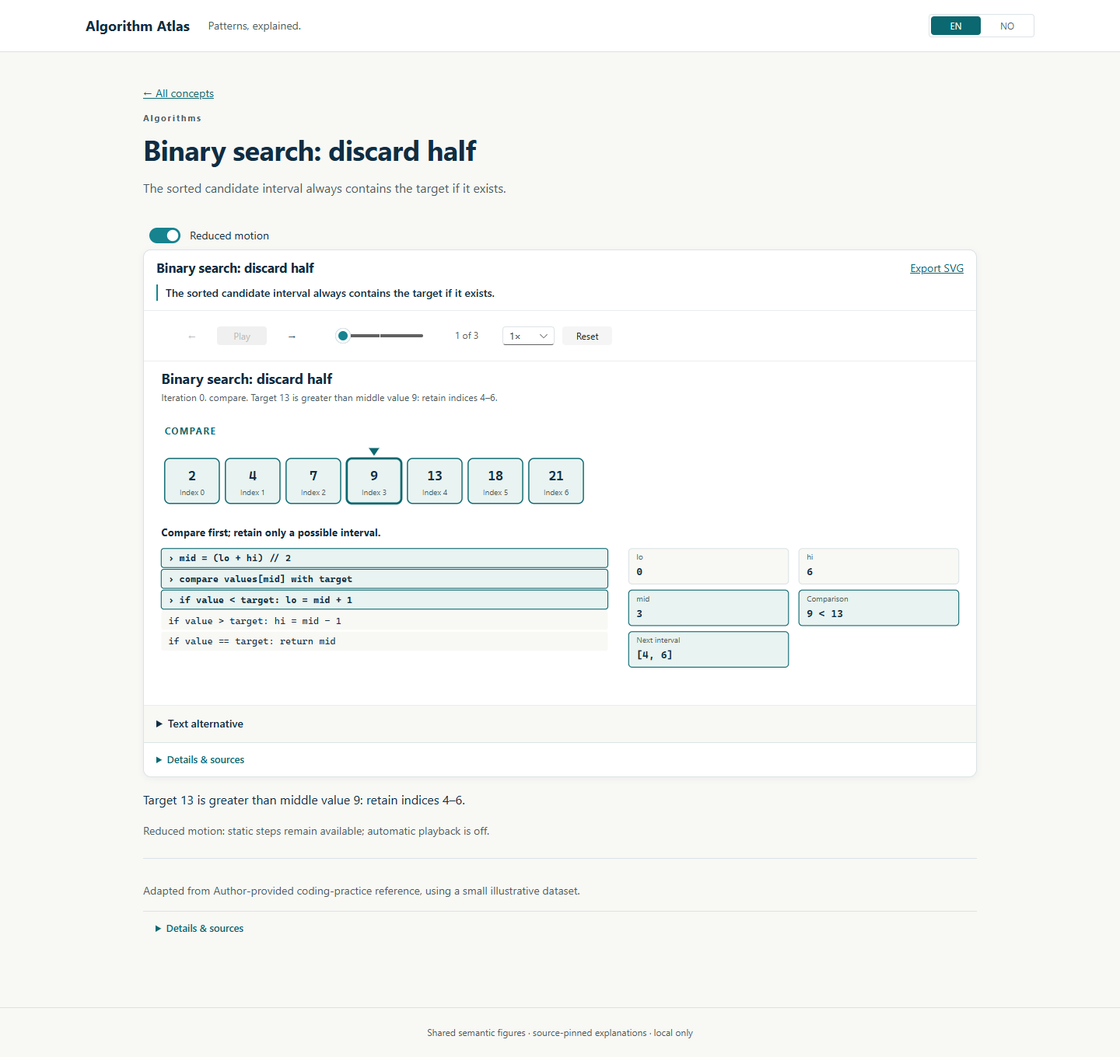
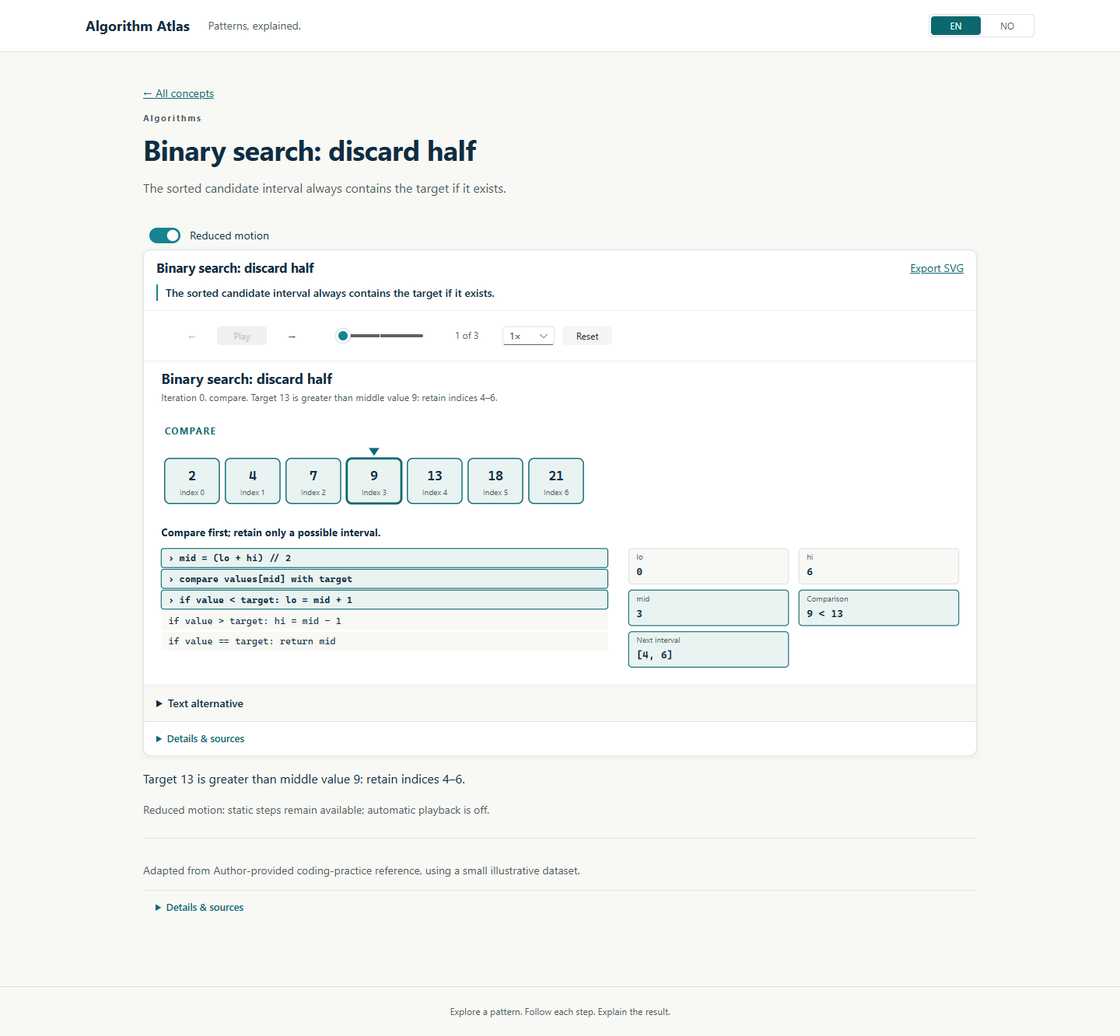
fix(v4): polish reasoning navigation and consumer clarity

diff --git a/project/conceptmotion_studio/tests/browser/v4-polish.spec.ts b/project/conceptmotion_studio/tests/browser/v4-polish.spec.ts
@@ -1,0 +1,76 @@
+import fs from 'node:fs';
+import AxeBuilder from '@axe-core/playwright';
+import { expect, test } from '@playwright/test';
+
+test.beforeEach(async ({ page }) => page.emulateMedia({ reducedMotion: 'reduce' }));
+
+test('V4 reasoning jumps keep the lesson route, keyboard focus and assessment answers', async ({ page }, info) => {
+  for (const lesson of ['think-sql', 'think-python-de']) {
+    const url = `http://127.0.0.1:4175/#/lesson/lesson.formation.${lesson}`;
+    await page.goto(url);
+    const picker = page.getByLabel('Jump to section', { exact: true });
+    await expect(picker).toBeVisible();
+    const targets = await picker.locator('option').evaluateAll(options => options.map(option => (option as HTMLOptionElement).value));
+    expect(targets).toHaveLength(7);
+    for (const targetId of targets) {
+      await picker.selectOption(targetId);
+      await page.getByRole('button', { name: 'Jump', exact: true }).press('Enter');
+      const target = page.locator(`[id="${targetId}"]`);
+      await expect(target).toBeFocused();
+      expect(await target.evaluate(element => element.getBoundingClientRect().top)).toBeGreaterThanOrEqual(0);
+      expect(await target.evaluate(element => element.getBoundingClientRect().top)).toBeLessThan(200);
+      await expect(page).toHaveURL(url);
+      await target.getByRole('button', { name: 'Back to sections', exact: true }).press('Enter');
+      await expect(picker).toBeFocused();
+    }
+    // Moving between explanations must not recreate the assessment or lose input.
+    const assessment = page.locator('#formation-reasoning-assessment');
+    const answer = assessment.getByRole('radio').first();
+    await answer.check();
+    await assessment.getByRole('button', { name: 'Back to sections', exact: true }).click();
+    await picker.selectOption(targets[0]);
+    await page.getByRole('button', { name: 'Jump', exact: true }).click();
+    await page.locator(`[id="${targets[0]}"]`).getByRole('button', { name: 'Back to sections', exact: true }).click();
+    await picker.selectOption('formation-reasoning-assessment');
+    await page.getByRole('button', { name: 'Jump', exact: true }).click();
+    await expect(answer).toBeChecked();
+    expect(await page.evaluate(() => document.documentElement.scrollWidth - document.documentElement.clientWidth)).toBeLessThanOrEqual(1);
+    const result = await new AxeBuilder({ page }).exclude('[data-tabster-dummy]').withTags(['wcag2a', 'wcag2aa', 'wcag21aa']).analyze();
+    expect(result.violations.filter(issue => issue.impact === 'serious' || issue.impact === 'critical')).toEqual([]);
+    await assessment.getByRole('button', { name: 'Back to sections', exact: true }).click();
+    fs.mkdirSync('qa/v4-screenshots', { recursive: true });
+    await page.screenshot({ path: `qa/v4-screenshots/v4-polish-${lesson}-navigation-${info.project.name}.png`, animations: 'disabled' });
+  }
+});
+
+test('V4 consumer copy keeps internal terminology behind existing details', async ({ page }) => {
+  test.setTimeout(120_000);
+  const routes = [
+    ['4175/#/catalog', 'Learn with structure.'],
+    ['4175/#/lesson/lesson.dubreu.python-lists', 'List transformations'],
+    ['4175/#/lesson/lesson.dubreu.sql-where', 'Filter rows with WHERE'],
+    ['4175/#/lesson/lesson.dubreu.sql-window', 'Rank within a group'],
+    ['4175/#/lesson/lesson.dubreu.pyspark-partitions', 'Understand partition movement'],
+    ['4175/#/practice', 'Check your understanding'],
+    ['4175/#/progress', 'Progress and review'],
+    ['4176/#learn', 'A curriculum for working with data'],
+    ['4176/#cheatsheets', 'Cheat Sheets'],
+    ['4176/#practice', 'Build fluency, one transformation at a time.'],
+    ['4176/#progress', 'Keep your practice moving'],
+    ['4176/#challenge/f-variables', 'Variables'],
+    ['4178/', 'See the invariant.'],
+    ['4178/#/concept/algorithm-binary-search', 'Binary search: discard half'],
+    ['4179/', 'One architecture. Several vocabularies.'],
+  ];
+  for (const [route, title] of routes) {
+    await page.goto(`http://127.0.0.1:${route}`);
+    await expect(page.getByRole('heading', { level: 1 })).toContainText(title);
+    const visibleCopy = await page.locator('main').innerText();
+    expect(visibleCopy, route).not.toMatch(/Dubreu|importer|semantic (?:scene|renderer|figure|objects|view)|source-preserved|source curriculum|original fixture|schema v\d|(?:source|figure|lesson|course|renderer) ID:/i);
+    expect(await page.evaluate(() => document.documentElement.scrollWidth - document.documentElement.clientWidth), route).toBeLessThanOrEqual(1);
+  }
+  const details = page.locator('.architecture-source .dp-content-details');
+  await expect(details).not.toHaveAttribute('open');
+  await details.locator('summary').press('Enter');
+  await expect(details).toContainText('Source reference:');
+});

diff --git a/project/conceptmotion_studio/apps/architecture-atlas/src/App.tsx b/project/conceptmotion_studio/apps/architecture-atlas/src/App.tsx
@@ -24,11 +24,11 @@ export default function App() {
       <label>Workload<Select aria-label="Workload" value={workload} onChange={event => { setWorkload(event.currentTarget.value as Workload); setStage('source'); }}>{Object.entries(workloadNames).map(([id, name]) => <option key={id} value={id}>{name}</option>)}</Select></label>
       <label>Provider<Select aria-label="Provider" value={provider} onChange={event => setProvider(event.currentTarget.value as Provider)}>{providers.map(id => <option key={id} value={id}>{providerNames[id]}</option>)}</Select></label>
       <label>Layout<Select aria-label="Layout" value={layout} disabled={view !== 'architecture'} onChange={event => setLayout(event.currentTarget.value as 'layered' | 'radial')}><option value="layered">Layered flow</option><option value="radial">Radial / hub</option></Select></label>
-      <label>Semantic view<Select aria-label="Semantic view" value={view} onChange={event => setView(event.currentTarget.value)}><option value="architecture">Architecture diagram</option><option value="workflow">Workflow state</option><option value="lineage">Column lineage</option></Select></label>
+      <label>View<Select aria-label="View" value={view} onChange={event => setView(event.currentTarget.value)}><option value="architecture">Architecture diagram</option><option value="workflow">Workflow state</option><option value="lineage">Column lineage</option></Select></label>
       <Switch label="Reduced motion" checked={actualReduced} onChange={(_, data) => setReduced(data.checked)} />
     </section>
     <nav className="architecture-stages" aria-label="Logical stages">{stages.map(id => <Button key={id} appearance={stage === id ? 'primary' : 'subtle'} aria-pressed={stage === id} onClick={() => { setStage(id); setView('architecture'); }}>{stageNames[id]}</Button>)}</nav>
-    <div className="architecture-workbench"><section className="architecture-canvas" aria-label="Architecture figure"><Suspense fallback={<p role="status">Loading semantic renderer…</p>}><FigurePlayer key={view} figure={displayed} locale={locale} reducedMotion={reduced} presentationSize="expanded" captions={view === 'workflow' ? retry.captions : view === 'architecture' ? stages.map(id => stageIntent[id]) : undefined} selectedId={view === 'architecture' ? stage : undefined} onSelect={id => { if (stages.includes(id as Stage)) setStage(id as Stage); }} frameIndex={view === 'architecture' ? stages.indexOf(stage) : undefined} onFrameChange={index => { if (view === 'architecture') setStage(stages[index]); }} showInspector={view !== 'architecture'} /></Suspense></section>
+    <div className="architecture-workbench"><section className="architecture-canvas" aria-label="Architecture figure"><Suspense fallback={<p role="status">Loading diagram…</p>}><FigurePlayer key={view} figure={displayed} locale={locale} reducedMotion={reduced} presentationSize="expanded" captions={view === 'workflow' ? retry.captions : view === 'architecture' ? stages.map(id => stageIntent[id]) : undefined} selectedId={view === 'architecture' ? stage : undefined} onSelect={id => { if (stages.includes(id as Stage)) setStage(id as Stage); }} frameIndex={view === 'architecture' ? stages.indexOf(stage) : undefined} onFrameChange={index => { if (view === 'architecture') setStage(stages[index]); }} showInspector={view !== 'architecture'} /></Suspense></section>
     <InspectorPanel title={`Stage Lens · ${stageNames[stage]}`} description={stageIntent[stage]}><p className="architecture-current">{translations[workload][provider][stages.indexOf(stage)]}</p><p>{stage === 'process' ? 'Spark and SQL names describe external compute choices. This Atlas explains them; it does not run them.' : 'Choose a provider without changing the logical responsibility of this stage.'}</p><h3>Compare provider translations</h3><Table aria-label="Stage provider comparison"><TableHeader><TableRow><TableHeaderCell>Provider</TableHeaderCell><TableHeaderCell>Translation</TableHeaderCell></TableRow></TableHeader><TableBody>{providers.map(id => <TableRow key={id}><TableCell>{providerNames[id]}</TableCell><TableCell>{translations[workload][id][stages.indexOf(stage)]}</TableCell></TableRow>)}</TableBody></Table></InspectorPanel></div>
     <section className="architecture-source"><p>Adapted from {architectureSource.label.toLowerCase()}. Provider terminology reflects the 4 September 2026 reference; confirm availability before deploying.</p><ContentDetails><p>Sixteen workload/provider variants. Source reference: {architectureSource.id}. Pinned snapshot: {architectureSource.verifiedAt}; not live service verification.</p><p>Local explanatory diagrams only. Spark names describe external compute, not execution here. Lineage is hand-authored, not parsed from SQL.</p></ContentDetails></section>
   </main></div>;

diff --git a/project/conceptmotion_studio/apps/formation/src/pages/ReasoningLesson.tsx b/project/conceptmotion_studio/apps/formation/src/pages/ReasoningLesson.tsx
@@ -2,28 +2,49 @@ import { FigurePlayer } from '@datapass/figure';
 import { AssessmentRunner } from '@datapass/learning';
 import { appendAssessmentAttempt, type ProgressStateV2 } from '@datapass/progress';
 import { ContentDetails, useLocale } from '@datapass/ui';
+import { Button, Select } from '@fluentui/react-components';
+import { useRef } from 'react';
 import { visualById } from '../../../../content/visuals';
 import { reasoningModules, reasoningSources } from '../data/reasoning';
 
 export function ReasoningLesson({ lessonId, progress, updateProgress }: {lessonId:string;progress:ProgressStateV2;updateProgress:(operation:(state:ProgressStateV2)=>ProgressStateV2)=>void}) {
   const module = reasoningModules.find(item=>item.lesson.id===lessonId);
   const { locale } = useLocale();
+  const sectionPicker = useRef<HTMLSelectElement>(null);
   if (!module) return null;
+  const jumpTo = (id: string) => {
+    const target = document.getElementById(id);
+    target?.focus({ preventScroll: true });
+    target?.scrollIntoView({ behavior: 'auto', block: 'start' });
+  };
+  const backToSections = <Button appearance="subtle" onClick={() => {
+    sectionPicker.current?.focus({ preventScroll: true });
+    sectionPicker.current?.closest('nav')?.scrollIntoView({ behavior: 'auto', block: 'start' });
+  }}>{locale === 'no' ? 'Til seksjonsvalg' : 'Back to sections'}</Button>;
   return <div className="formation-reasoning" data-testid="formation-reasoning">
     <nav className="formation-reasoning-index" aria-label="Thinking module sections">
-      {module.sections.map(section=><a key={section.id} href={`#section-${section.id}`} onClick={event=>{event.preventDefault();document.getElementById(`section-${section.id}`)?.scrollIntoView({behavior:'auto'});}}>{section.title}</a>)}
+      <label htmlFor="formation-section-picker">{locale === 'no' ? 'Hopp til seksjon' : 'Jump to section'}</label>
+      <Select id="formation-section-picker" key={lessonId} ref={sectionPicker} defaultValue={`section-${module.sections[0].id}`}>
+        {module.sections.map(section => <option key={section.id} value={`section-${section.id}`}>{section.title}</option>)}
+        <option value="formation-reasoning-assessment">{locale === 'no' ? 'Øving' : 'Practice'} · {String(module.assessment.title)}</option>
+      </Select>
+      <Button appearance="secondary" onClick={() => sectionPicker.current && jumpTo(sectionPicker.current.value)}>{locale === 'no' ? 'Hopp' : 'Jump'}</Button>
     </nav>
     {module.sections.map(section=>{
       const visual=section.visualId ? visualById(section.visualId) : undefined;
-      return <section className="formation-reasoning-section" id={`section-${section.id}`} key={section.id}>
-        <h2>{section.title}</h2><p>{section.text}</p>
+      return <section className="formation-reasoning-section" id={`section-${section.id}`} key={section.id} tabIndex={-1} aria-labelledby={`section-${section.id}-title`}>
+        <h2 id={`section-${section.id}-title`}>{section.title}</h2><p>{section.text}</p>
         {visual ? <FigurePlayer figure={visual.figure} captions={visual.captions} locale={locale} presentationSize={visual.figure.rendererId === 'table.join' ? 'regular' : 'compact'} showInspector={false}/> : null}
         <p className="formation-checkpoint"><strong>Checkpoint</strong> {section.checkpoint}</p>
+        {backToSections}
       </section>;
     })}
-    <AssessmentRunner headingLevel={2} assessment={module.assessment} questions={module.questions} locale={locale}
+    <section id="formation-reasoning-assessment" className="formation-reasoning-assessment" tabIndex={-1} aria-label={String(module.assessment.title)}>
+      <AssessmentRunner headingLevel={2} assessment={module.assessment} questions={module.questions} locale={locale}
       attemptId={`${module.assessment.id}:attempt:${(progress.assessments[module.assessment.id]?.attempts.length??0)+1}`}
       onSubmit={submission=>updateProgress(current=>appendAssessmentAttempt(current,module.assessment.id,submission.attempt))}/>
+      {backToSections}
+    </section>
     <ContentDetails className="formation-sources" summary="Sources and scope"><p>Original reasoning lessons. Reference behavior checked 4 September 2026; dialect-specific syntax is identified explicitly.</p>
       <ul>{reasoningSources.filter(source=>module.lesson.sourceIds?.includes(source.id)).map(source=><li key={source.id}><a href={source.url} target="_blank" rel="noreferrer">{String(source.title)}</a></li>)}</ul>
     </ContentDetails>

diff --git a/project/conceptmotion_studio/apps/code-sandbox/src/pages/CatalogPage.tsx b/project/conceptmotion_studio/apps/code-sandbox/src/pages/CatalogPage.tsx
@@ -5,6 +5,7 @@ import { practiceCatalog, practiceItems } from '../../../../content/practice';
 import type { PracticeItem } from '@datapass/content';
 import { hasPracticeVisual } from '../../../../content/visuals/practice-availability';
 const config = { allowedFacets: ['track', 'difficulty', 'language', 'status'], defaultView: 'table' as const };
+const statusLabels: Record<string, string> = { 'not-started': 'Not started', 'in-progress': 'In progress', completed: 'Completed', mastered: 'Mastered', review: 'Review later', flagged: 'Flagged' };
 export default function CatalogPage({ progress, onSelect }: { progress: ProgressStateV2; onSelect: (id: string) => void }) {
   const [state, setState] = useCatalogUrlState({ config });
   const filtered = filterAndSortCatalogItems(practiceItems, state, {
@@ -16,10 +17,10 @@ export default function CatalogPage({ progress, onSelect }: { progress: Progress
     {facet('track', 'Domain / track', practiceCatalog.tracks.map(t => ({ value: t.id, label: t.name })))}
     {facet('difficulty', 'Difficulty', ['Easy', 'Medium', 'Hard'].map(value => ({ value, label: value })))}
     {facet('language', 'Language / engine', [...new Set(practiceItems.flatMap(i => i.variants.map(v => v.language)))].sort().map(value => ({ value, label: value })))}
-    {facet('status', 'Practice status', ['not-started', 'in-progress', 'mastered', 'review', 'flagged'].map(value => ({ value, label: value })))}
+    {facet('status', 'Practice status', ['not-started', 'in-progress', 'mastered', 'review', 'flagged'].map(value => ({ value, label: statusLabels[value] })))}
   </>} actions={<ViewToggle value={state.view} onChange={value => setState(current => setCatalogView(current, value))} />} />} results={<>
     <div className="sandbox-catalog-summary"><p role="status">{filtered.length} of 323 practice items</p><div className="sandbox-actions"><Button onClick={() => setState(current => setCatalogFacetValues(current, 'status', ['review']))}>Review queue</Button><Button onClick={() => setState(current => ({ ...current, query: '', filters: {} }))}>Clear filters</Button></div></div>
     {filtered.length === 0 ? <p>No exercises match these filters.</p> : state.view === 'cards' ? <div className="sandbox-grid">{filtered.map(item => <EntityCard key={item.id} entityId={item.id} title={item.title} eyebrow={item.domain} description={item.concept} metadata={<><Badge appearance="outline">{item.difficulty}</Badge>{hasPracticeVisual(item.id) && <Badge appearance="tint">Visualize available</Badge>}</>} onSelect={onSelect} />)}</div>
-      : <EntityTable<PracticeItem> items={filtered} getRowId={item => item.id} onRowSelect={item => onSelect(item.id)} columns={[{ id: 'title', header: 'Practice item', renderCell: item => <><strong>{item.title}</strong><small>{item.domain}</small>{hasPracticeVisual(item.id) && <span className="sandbox-visual-indicator">Visualize available</span>}</> }, { id: 'difficulty', header: 'Difficulty', renderCell: item => item.difficulty }, { id: 'engines', header: 'Languages', renderCell: item => item.variants.map(v => v.label).join(' · ') }, { id: 'status', header: 'Progress', renderCell: item => progress.challenges[item.id]?.mastered ? 'Mastered' : progress.challenges[item.id]?.flagged ? 'Flagged' : progress.challenges[item.id]?.status ?? 'Not started' }]} />}
+      : <EntityTable<PracticeItem> items={filtered} getRowId={item => item.id} onRowSelect={item => onSelect(item.id)} columns={[{ id: 'title', header: 'Practice item', renderCell: item => <><strong>{item.title}</strong><small>{item.domain}</small>{hasPracticeVisual(item.id) && <span className="sandbox-visual-indicator">Visualize available</span>}</> }, { id: 'difficulty', header: 'Difficulty', renderCell: item => item.difficulty }, { id: 'engines', header: 'Languages', renderCell: item => item.variants.map(v => v.label).join(' · ') }, { id: 'status', header: 'Progress', renderCell: item => progress.challenges[item.id]?.mastered ? 'Mastered' : progress.challenges[item.id]?.flagged ? 'Flagged' : statusLabels[progress.challenges[item.id]?.status ?? 'not-started'] ?? 'Not started' }]} />}
   </>} />;
 }

diff --git a/project/conceptmotion_studio/apps/formation/src/data/contentCatalog.ts b/project/conceptmotion_studio/apps/formation/src/data/contentCatalog.ts
@@ -111,14 +111,14 @@ export const sqlFilterFigure: FigureSpec = {
   kind: 'concept',
   rendererId: 'table.transform',
   title: 'A filter changes membership, not identity',
-  subtitle: 'Stable row IDs survive the WHERE predicate',
-  takeaway: 'Rows 101 and 104 remain the same semantic objects after filtering.',
+  subtitle: 'WHERE keeps only the products that match',
+  takeaway: 'Products 101 and 104 retain their original values after filtering.',
   spec: toCanonicalJsonValue({
     kind: 'table',
     version: '2',
     id: 'scene.dubreu.sql-filter',
     title: 'Products before and after WHERE',
-    description: 'A two-frame semantic table transform.',
+    description: 'Compare the products before and after filtering.',
     frames: [productSourceState, productFilterState],
   }),
   sourceIds: ['source.dubreu.original-fixtures'],
@@ -141,7 +141,7 @@ export const sqlNotebook: NotebookSpec = {
     {
       id: 'notebook.dubreu.sql-where.cell.figure-introduction',
       type: 'markdown',
-      markdown: '## See what the predicate changes\nThe semantic figure keeps row identity visible before and after the filter.',
+      markdown: '## See what the predicate changes\nFollow the same products before and after the filter.',
       tags: ['editorial', 'conceptmotion'],
     },
     {
@@ -202,7 +202,7 @@ export const runtimeTargets: readonly RuntimeTarget[] = [
     id: 'runtime.dubreu.download-python',
     kind: 'download',
     label: 'Python reference',
-    description: 'Downloads an original fixture. It does not execute in this site.',
+    description: 'Download the original Python example to practice in your own environment.',
     downloadPath: '/notebooks/dubreu_python_lists_reference.py',
     executesExternally: false,
   },
@@ -210,7 +210,7 @@ export const runtimeTargets: readonly RuntimeTarget[] = [
     id: 'runtime.dubreu.download-sql',
     kind: 'download',
     label: 'SQL notebook',
-    description: 'Downloads the exact original fixture imported for this lesson.',
+    description: 'Download the original notebook used in this lesson.',
     downloadPath: '/notebooks/dubreu_sql_where_reference.ipynb',
     executesExternally: false,
   },
@@ -218,7 +218,7 @@ export const runtimeTargets: readonly RuntimeTarget[] = [
     id: 'runtime.dubreu.download-sql-window',
     kind: 'download',
     label: 'Advanced SQL reference',
-    description: 'Downloads the original comparison fixture. It is not executed in this site.',
+    description: 'Download the original SQL example to compare with your query.',
     downloadPath: '/notebooks/dubreu_sql_window_reference.sql',
     executesExternally: false,
   },
@@ -234,7 +234,7 @@ export const runtimeTargets: readonly RuntimeTarget[] = [
     id: 'runtime.dubreu.colab-python',
     kind: 'colab',
     label: 'Colab',
-    description: 'Opens Google Colab. You remain responsible for uploading the fixture and running it there.',
+    description: 'Open Google Colab, then upload and run the example there.',
     url: 'https://colab.research.google.com/',
     runtimeRequirements: ['Google account may be required', 'External service and runtime'],
     executesExternally: true,
@@ -277,7 +277,7 @@ const foundationCourses: readonly CourseSpec[] = [
       lessons: [{
         id: 'lesson.dubreu.sql-where',
         title: 'Filter rows with WHERE',
-        summary: 'Keep the rows that satisfy two predicates while preserving stable IDs.',
+        summary: 'Keep the rows that satisfy two conditions, with their original values.',
         objectives: ['Combine predicates with AND.', 'Explain which rows remain and why.'],
         conceptIds: ['concept.sql.where', 'concept.identity.stable'],
         notebookId: sqlNotebook.id,
@@ -384,7 +384,7 @@ export const questions: readonly QuestionSpec[] = [
 
 export const sqlPracticeAssessment: AssessmentSpec = {
   id: 'assessment.dubreu.sql-practice',
-  title: 'SQL and runtime-boundary practice',
+  title: 'SQL knowledge check',
   mode: 'practice',
   questionIds: questions.map((question) => question.id),
   passingScore: 67,

diff --git a/project/conceptmotion_studio/apps/algorithm-atlas/src/App.tsx b/project/conceptmotion_studio/apps/algorithm-atlas/src/App.tsx
@@ -14,9 +14,9 @@ export default function App() {
   const entry = visualById(id);
   const results = migratedVisuals.filter(v => (domain === 'all' || v.domain === domain) && `${v.figure.title} ${v.invariant}`.toLowerCase().includes(query.toLowerCase()));
   return <div className="atlas-app dp-consumer"><a href="#main" className="atlas-skip">Skip to content</a><header className="atlas-top"><a className="atlas-brand" href="#">Algorithm Atlas</a><span>Patterns, explained.</span><LanguageToggle /></header><main id="main" className="atlas-main">
-    {entry ? <Suspense fallback={<p role="status">Loading semantic scene…</p>}><SceneDetail entry={entry} locale={locale} /></Suspense> : <>
+    {entry ? <Suspense fallback={<p role="status">Loading explanation…</p>}><SceneDetail entry={entry} locale={locale} /></Suspense> : <>
       <header className="atlas-heading"><p className="atlas-eyebrow">THE CONCEPT LIBRARY</p><h1>See the invariant.</h1><p>Thirty focused visual explanations. Keep the meaning; change the example.</p></header>
-      <CatalogShell header={<SearchFilterBar query={query} onQueryChange={setQuery} label="Search concepts" placeholder="Search a concept or invariant" filters={<label>Domain <Select aria-label="Concept domain" value={domain} onChange={e => setDomain(e.currentTarget.value)}><option value="all">All domains</option>{['SQL', 'Algorithms', 'Data engineering', 'ML / statistics'].map(name => <option key={name}>{name}</option>)}</Select></label>} />} resultsLabel="Concept catalog" results={<><p className="atlas-count">{results.length} concepts · deterministic scenes · no code execution</p><div className="atlas-grid">{results.map(v => <EntityCard key={v.id} entityId={v.id} title={String(v.figure.title)} eyebrow={v.domain} description={v.invariant} footer={`${v.captions.length} steps`} onSelect={() => { location.hash = `/concept/${v.id}`; }} />)}</div>{!results.length ? <p>No concepts match. <Button onClick={() => { setQuery(''); setDomain('all'); }}>Clear filters</Button></p> : null}</>} />
+      <CatalogShell header={<SearchFilterBar query={query} onQueryChange={setQuery} label="Search concepts" placeholder="Search a concept or invariant" filters={<label>Domain <Select aria-label="Concept domain" value={domain} onChange={e => setDomain(e.currentTarget.value)}><option value="all">All domains</option>{['SQL', 'Algorithms', 'Data engineering', 'ML / statistics'].map(name => <option key={name}>{name}</option>)}</Select></label>} />} resultsLabel="Concept catalog" results={<><p className="atlas-count">{results.length} concepts · step-by-step explanations</p><div className="atlas-grid">{results.map(v => <EntityCard key={v.id} entityId={v.id} title={String(v.figure.title)} eyebrow={v.domain} description={v.invariant} footer={`${v.captions.length} steps`} onSelect={() => { location.hash = `/concept/${v.id}`; }} />)}</div>{!results.length ? <p>No concepts match. <Button onClick={() => { setQuery(''); setDomain('all'); }}>Clear filters</Button></p> : null}</>} />
     </>}
-  </main><footer className="atlas-footer">Shared semantic figures · source-pinned explanations · local only</footer></div>;
+  </main><footer className="atlas-footer">Explore a pattern. Follow each step. Explain the result.</footer></div>;
 }

diff --git a/project/conceptmotion_studio/apps/formation/src/styles.css b/project/conceptmotion_studio/apps/formation/src/styles.css
@@ -118,8 +118,11 @@ button, input, textarea, select { font: inherit; }
   *, *::before, *::after { scroll-behavior: auto !important; transition-duration: .01ms !important; animation-duration: .01ms !important; animation-iteration-count: 1 !important; }
 }
 .formation-reasoning { display: grid; gap: 1.5rem; }
-.formation-reasoning-index { display: flex; flex-wrap: wrap; gap: .75rem 1.5rem; padding: 1rem; border: 1px solid #dce3e5; background: #fff; }
-.formation-reasoning-index a { color: #0b6870; font-size: .875rem; }
+.formation-reasoning-index { display: grid; grid-template-columns: minmax(0, 1fr) auto; align-items: end; gap: .5rem; scroll-margin-top: 5rem; }
+.formation-reasoning-index label { grid-column: 1 / -1; color: var(--dp-ink-secondary); font-size: .875rem; font-weight: 600; }
+.formation-reasoning-index > .fui-Select { min-width: 0; max-width: 100%; }
+.formation-reasoning-index select { min-width: 0; width: 100%; }
+.formation-reasoning-assessment { min-width: 0; scroll-margin-top: 5rem; }
 .formation-reasoning-section { scroll-margin-top: 5rem; min-width: 0; padding: 1.25rem; background: #fff; border: 1px solid #dce3e5; border-radius: 6px; }
 .formation-reasoning-section h2 { font-size: 1.25rem; color: #102d43; }
 .formation-reasoning-section p { max-width: 76ch; font-size: 1rem; line-height: 1.7; }
@@ -134,8 +137,7 @@ button, input, textarea, select { font: inherit; }
 .dp-consumer .formation-local-label,
 .dp-consumer .formation-sources,
 .dp-consumer .formation-advanced-exercise > p { color: var(--dp-ink-secondary); }
-.dp-consumer .formation-eyebrow,
-.dp-consumer .formation-reasoning-index a { color: var(--dp-accent-teal); }
+.dp-consumer .formation-eyebrow { color: var(--dp-accent-teal); }
 .dp-consumer .formation-objectives,
 .dp-consumer .formation-concept-explanation,
 .dp-consumer .formation-advanced-exercise,
@@ -148,7 +150,7 @@ button, input, textarea, select { font: inherit; }
 }
 .dp-consumer .formation-objectives { border: 0; padding-block: .5rem; background: transparent; }
 .dp-consumer .formation-reasoning-section { box-shadow: var(--dp-elevation-low); }
-.dp-consumer .formation-reasoning-section h2 { color: var(--dp-ink-primary); }
-.dp-consumer .formation-reasoning-index { background: transparent; border: 0; border-bottom: 1px solid var(--dp-border-subtle); padding-inline: 0; }
+.dp-consumer .formation-reasoning-section h2 { color: var(--dp-ink-primary); margin-top: 0; }
+.dp-consumer .formation-reasoning-index { background: var(--dp-surface-base); border: 1px solid var(--dp-border-subtle); border-radius: var(--dp-radius-card); padding: .75rem; }
 .dp-consumer .formation-checkpoint { border-color: var(--dp-accent-amber); background: var(--dp-canvas-warm); border-radius: var(--dp-radius-control); }
 .dp-consumer .formation-progress-json { background: transparent; border: 0; padding-inline: 0; }

diff --git a/project/conceptmotion_studio/packages/learning/src/challenge-workbench.tsx b/project/conceptmotion_studio/packages/learning/src/challenge-workbench.tsx
@@ -38,7 +38,7 @@ export function ChallengeWorkbench({ challenge, progress, onProgressChange, note
     </TabList>}
     leftPane={<div className="dp-practice-copy">
       {left === 'description' && <article><h2>Problem</h2><p>{challenge.summary}</p>{item.concept && <><h3>Mental model</h3><p>{item.concept}</p></>}{challenge.schema && <><h3>Input shape / context</h3><p>{challenge.schema}</p></>}{challenge.input && <pre>{challenge.input}</pre>}{item.why && <><h3>Why it matters</h3><p>{item.why}</p></>}{item.pitfall && <aside><h3>Watch for</h3><p>{item.pitfall}</p></aside>}{item.source?.sourcePack && <p className="dp-practice-attribution">{item.source.sourcePack}</p>}{item.source && <ContentDetails summary="Practice details & sources" open={metadataMode === 'developer' ? true : undefined}><p>{item.source.repository} · {item.source.itemId}</p><p>Imported revision {item.source.revision}. Original metadata and attribution remain in the migration corpus.</p><p>Display, editing and comparison only; no execution or code grading.</p></ContentDetails>}</article>}
-      {left === 'visualize' && (activeFigure ? <><p>Explore the pattern with illustrative data, then apply it to your challenge.</p><FigurePlayer figure={activeFigure} captions={figureCaptions} reducedMotion={reducedMotion} locale={locale} metadataMode={metadataMode} presentationSize={activeFigure.rendererId === 'table.join' ? 'regular' : 'compact'} /></> : <><h2>Reason through the transformation</h2><p>{item.concept ?? challenge.summary}</p><p>No semantic figure is attached to this item. Sketch the input grain and expected transformation as your visual model.</p></>)}
+      {left === 'visualize' && (activeFigure ? <><p>Explore the pattern with illustrative data, then apply it to your challenge.</p><FigurePlayer figure={activeFigure} captions={figureCaptions} reducedMotion={reducedMotion} locale={locale} metadataMode={metadataMode} presentationSize={activeFigure.rendererId === 'table.join' ? 'regular' : 'compact'} /></> : <><h2>Reason through the transformation</h2><p>{item.concept ?? challenge.summary}</p><p>This exercise has no visual walkthrough yet. Sketch the input grain and expected transformation as your visual model.</p></>)}
       {left === 'hints' && <><h2>Progressive hints</h2><ol>{challenge.hints.slice(0, hints).map((hint, index) => <li key={index}>{hint}</li>)}</ol><Button disabled={hints >= challenge.hints.length} onClick={() => setHints(current => current + 1)}>Reveal next hint</Button><p>{hints} / {challenge.hints.length} revealed</p></>}
       {left === 'notes' && <Field label="Your reasoning notes"><Textarea value={notes} onChange={(_, data) => onNotesChange?.(data.value)} resize="vertical" rows={10} /></Field>}
     </div>}

diff --git a/project/conceptmotion_studio/packages/figure/src/player.tsx b/project/conceptmotion_studio/packages/figure/src/player.tsx
@@ -58,10 +58,12 @@ export function FigurePlayer({ figure, captions, stepCount: explicitCount, showI
     if (!canvas) return;
     if (narrow && hasSvg) {
       canvas.tabIndex = 0; canvas.setAttribute('role', 'region'); canvas.setAttribute('aria-label', 'Scrollable figure canvas');
+      canvas.setAttribute('aria-describedby', `${accessibilityPrefix}-pan-hint`);
     } else {
       canvas.removeAttribute('tabindex'); canvas.removeAttribute('role'); canvas.removeAttribute('aria-label');
+      canvas.removeAttribute('aria-describedby');
     }
-  }, [narrow, hasSvg, figure.id]);
+  }, [narrow, hasSvg, figure.id, accessibilityPrefix]);
   useEffect(() => {
     if (!playing || reducedMotion || count <= 1) return;
     if (current >= count - 1) { setPlaying(false); return; }
@@ -101,7 +103,7 @@ export function FigurePlayer({ figure, captions, stepCount: explicitCount, showI
     setExportStatus('Current step exported as a static SVG.');
   };
   return <div ref={host} className="dp-figure-player" data-reduced-motion={String(reducedMotion)} data-frame-index={current} data-pannable={String(narrow && hasSvg)}>
-    {narrow && hasSvg ? <p className="dp-figure-player__pan-hint">Scroll the figure sideways to read its details. Keyboard selection and captions remain available.</p> : null}
+    {narrow && hasSvg ? <p id={`${accessibilityPrefix}-pan-hint`} className="dp-figure-player__pan-hint">{locale === 'no' ? 'Sveip eller rull sidelengs for å se hele figuren. Med tastatur: fokuser figuren og bruk venstre/høyre piltast.' : 'Swipe or scroll sideways to explore the full figure. Keyboard: focus the canvas, then use Left/Right arrows.'}</p> : null}
     <FigureView {...rest} figure={figure} locale={locale} metadataMode={metadataMode} presentationSize={presentationSize} reducedMotion={reducedMotion} frameIndex={current} selectedId={selectedId} onSelect={id => { setSelection(id); onSelect?.(id); }}
       toolbar={<>{toolbar}{hasSvg && count > 1 ? <TimelineControls currentStep={current} stepCount={count} isPlaying={playing} onPlayPause={() => { if (current >= count - 1) seek(0); setPlaying(value => !value); }} onPrevious={() => { setPlaying(false); seek(current - 1); }} onNext={() => { setPlaying(false); seek(current + 1); }} onSeek={value => { setPlaying(false); seek(value); }} onReset={() => { setPlaying(false); seek(0); }} speed={speed} onSpeedChange={setSpeed} playDisabled={reducedMotion} /> : null}</>}
       exportAction={exportAction ?? (hasSvg ? <a href="#figure-export" download={filename} onClick={download}>Export SVG</a> : <span>SVG export unavailable for this renderer</span>)} />

diff --git a/project/conceptmotion_studio/apps/code-sandbox/src/pages/ReferencePage.tsx b/project/conceptmotion_studio/apps/code-sandbox/src/pages/ReferencePage.tsx
@@ -1,6 +1,6 @@
 import { EntityCard, PageHeader } from '@datapass/ui';
 import { practiceCatalog } from '../../../../content/practice';
 export default function ReferencePage({ mode, onPractice }: { mode: 'learn' | 'cheatsheets'; onPractice: (track?: string) => void }) {
-  return mode === 'learn' ? <><PageHeader eyebrow="LEARNING PATHS" title="A curriculum for working with data" description="24 source curriculum tracks, followed by SQL, Python syntax, and multi-engine practice collections." /><div className="sandbox-grid">{practiceCatalog.tracks.map(track => <EntityCard key={track.id} entityId={track.id} title={track.name} description={track.description} eyebrow={track.collection} onSelect={onPractice} />)}</div></>
-    : <><PageHeader eyebrow="QUICK REFERENCE" title="Cheat Sheets" description="Source-preserved syntax and mental models. These examples are reference text, not an executable environment." /><div className="sandbox-references">{practiceCatalog.cheatSheets.map(sheet => <details key={sheet.id}><summary>{sheet.label} — {sheet.subtitle}</summary><ul>{sheet.mentalModels.map(model => <li key={model}>{model}</li>)}</ul>{sheet.sections.map(([title, code]) => <section key={title}><h2>{title}</h2><pre><code>{code}</code></pre></section>)}</details>)}</div></>;
+  return mode === 'learn' ? <><PageHeader eyebrow="LEARNING PATHS" title="A curriculum for working with data" description="24 curriculum tracks, followed by SQL, Python syntax, and practice across data engines." /><div className="sandbox-grid">{practiceCatalog.tracks.map(track => <EntityCard key={track.id} entityId={track.id} title={track.name} description={track.description} eyebrow="Learning path" onSelect={onPractice} />)}</div></>
+    : <><PageHeader eyebrow="QUICK REFERENCE" title="Cheat Sheets" description="Review syntax and mental models, then try the examples in your own environment." /><div className="sandbox-references">{practiceCatalog.cheatSheets.map(sheet => <details key={sheet.id}><summary>{sheet.label} — {sheet.subtitle}</summary><ul>{sheet.mentalModels.map(model => <li key={model}>{model}</li>)}</ul>{sheet.sections.map(([title, code]) => <section key={title}><h2>{title}</h2><pre><code>{code}</code></pre></section>)}</details>)}</div></>;
 }

diff --git a/project/conceptmotion_studio/tests/browser/v4-visuals.spec.ts b/project/conceptmotion_studio/tests/browser/v4-visuals.spec.ts
@@ -56,6 +56,7 @@ test('V4 eleven scenes synchronize operation, entity and state without clipped f
       const box = await svg.evaluate(element => { const svg = element as SVGSVGElement; const bounds = svg.getBBox(); return { bottom: bounds.y + bounds.height, right: bounds.x + bounds.width, height: svg.viewBox.baseVal.height, width: svg.viewBox.baseVal.width }; });
       expect(box.bottom, `${id} step ${seen.length} bottom`).toBeLessThanOrEqual(box.height + 1);
       expect(box.right, `${id} step ${seen.length} right`).toBeLessThanOrEqual(box.width + 1);
+      if (id.startsWith('algorithm-')) expect(box.height - box.bottom, `${id} compact bottom gutter`).toBeLessThanOrEqual(24);
       await expect(svg).toHaveAttribute('viewBox', viewport!);
       const next = figure.getByRole('button', { name: 'Next', exact: true });
       if (!(await next.isEnabled())) break;
@@ -85,6 +86,16 @@ test('V4 Architecture uses semantic icons and keyboard stage paths in both layou
   await expect(svg.locator('[data-node-id="process"] [data-role="label"]')).toContainText('Fabric Spark');
   await assertNodeTextFits(page);
   await expect(page.locator('.architecture-source .dp-content-details')).not.toHaveAttribute('open');
+  if (info.project.name.includes('phone')) {
+    const canvas = page.getByRole('region', { name: 'Scrollable figure canvas', exact: true });
+    const hint = page.locator('.dp-figure-player__pan-hint');
+    await expect(hint).toBeVisible();
+    await expect(canvas).toHaveAccessibleDescription('Swipe or scroll sideways to explore the full figure. Keyboard: focus the canvas, then use Left/Right arrows.');
+    await canvas.focus();
+    await page.keyboard.press('ArrowRight');
+    await expect.poll(() => canvas.evaluate(element => element.scrollLeft)).toBeGreaterThan(0);
+    await canvas.evaluate(element => { element.scrollLeft = 0; });
+  }
   await audit(page, info, 'v4-architecture-layered');
   await page.locator('.architecture-canvas').screenshot({ path: `qa/v4-screenshots/v4-architecture-layered-figure-${info.project.name}.png`, animations: 'disabled' });
   await page.getByLabel('Layout', { exact: true }).selectOption('radial');

diff --git a/project/conceptmotion_studio/apps/formation/src/pages/ProgressPage.tsx b/project/conceptmotion_studio/apps/formation/src/pages/ProgressPage.tsx
@@ -7,6 +7,8 @@ import { computeProgressBreakdown, type ProgressStateV2 } from '@datapass/progre
 import { ContentDetails, PageHeader, useLocale } from '@datapass/ui';
 import { lessons, sqlPracticeAssessment } from '../data/contentCatalog';
 
+const domainLabels: Record<string, string> = { sql: 'SQL', python: 'Python', pyspark: 'PySpark', 'data-engineering': 'Data engineering' };
+
 export interface ProgressPageProps {
   progress: ProgressStateV2;
   persisted: boolean;
@@ -61,7 +63,7 @@ export function ProgressPage({ progress, persisted, loadSource, warnings, export
         <span className="formation-eyebrow">ASSESSMENT BREAKDOWN</span>
         <h2 id="formation-breakdown-title">{locale === 'no' ? 'Etter emne' : 'By domain'}</h2>
         {breakdown.domains.length ? (
-          <dl>{breakdown.domains.map((metric) => <div key={metric.id}><dt>{metric.id}</dt><dd>{metric.correct}/{metric.answers} · {metric.percent}%</dd></div>)}</dl>
+          <dl>{breakdown.domains.map((metric) => <div key={metric.id}><dt>{domainLabels[metric.id] ?? (locale === 'no' ? 'Andre emner' : 'Other topics')}</dt><dd>{metric.correct}/{metric.answers} · {metric.percent}%</dd></div>)}</dl>
         ) : <p>{locale === 'no' ? 'Lever en vurdering for å se en oversikt.' : 'Submit an assessment to see a breakdown.'}</p>}
       </section>
       <ContentDetails summary={locale === 'no' ? 'Sikkerhetskopi og lagringsdetaljer' : 'Backup & storage details'}>
